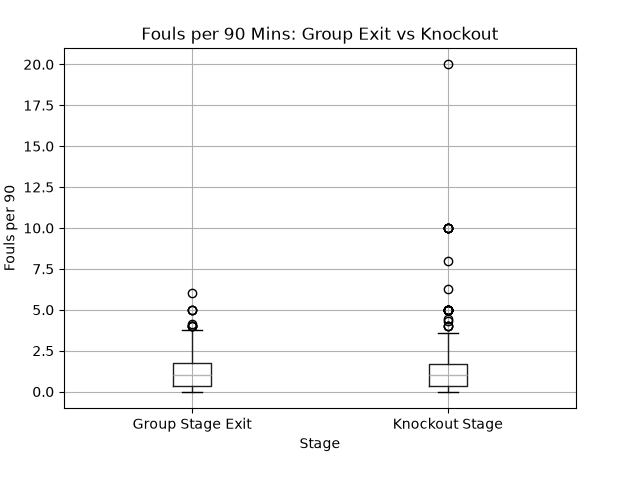
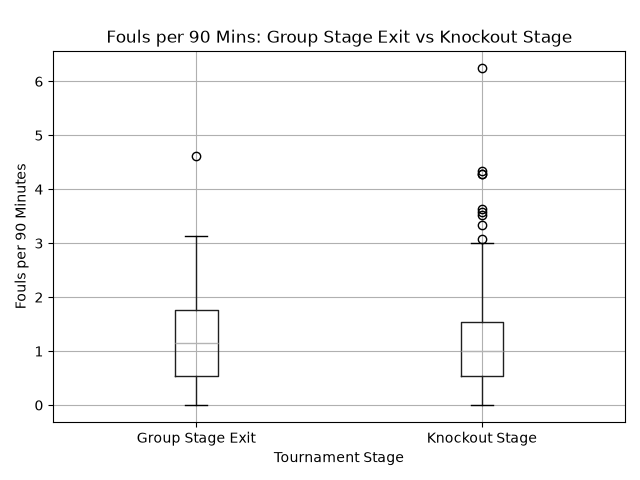
Update task 1 script and generated boxplot

diff --git a/task1_pressing_discipline.py b/task1_pressing_discipline.py
@@ -22,9 +22,9 @@ df = pd.merge(
 df['90s'] = pd.to_numeric(df['90s'], errors='coerce')
 df['Fls'] = pd.to_numeric(df['Fls'], errors='coerce')
 
-# drop missing rows, zero minutes, and goalies
+# drop missing rows, goalies, and players with under 1 full 90 mins (avoids per-90 rate distortion)
 df = df.dropna(subset=['90s', 'Fls'])
-df = df[(df['90s'] > 0) & (df['Pos'] != 'GK')]
+df = df[(df['90s'] >= 1.0) & (df['Pos'] != 'GK')]
 
 # foul rate per 90
 df['Fls_per90'] = df['Fls'] / df['90s']
@@ -40,7 +40,7 @@ df['Stage'] = 'Knockout Stage'
 for team in eliminated_teams:
     df.loc[df['Squad'].str.contains(team, case=False, na=False), 'Stage'] = 'Group Stage Exit'
 
-print("Total players:", len(df))
+print("Total qualifying players:", len(df))
 
 # grab random 60% sample from each group
 sample_exit = df[df['Stage'] == 'Group Stage Exit'].sample(frac=0.6, random_state=42)
@@ -51,39 +51,42 @@ group_exit = sample[sample['Stage'] == 'Group Stage Exit']['Fls_per90']
 group_ko = sample[sample['Stage'] == 'Knockout Stage']['Fls_per90']
 
 # summary stats
-print("\nGroup Stage Exit:")
-print("Mean:", group_exit.mean())
-print("Median:", group_exit.median())
-print("Std Dev:", group_exit.std())
+print("\n--- Group Stage Exit ---")
+print("Mean:   ", round(group_exit.mean(), 2))
+print("Median: ", round(group_exit.median(), 2))
+print("Std Dev:", round(group_exit.std(), 2))
 
-print("\nKnockout Stage:")
-print("Mean:", group_ko.mean())
-print("Median:", group_ko.median())
-print("Std Dev:", group_ko.std())
+print("\n--- Knockout Stage ---")
+print("Mean:   ", round(group_ko.mean(), 2))
+print("Median: ", round(group_ko.median(), 2))
+print("Std Dev:", round(group_ko.std(), 2))
 
-# plot comparison
-sample.boxplot(column='Fls_per90', by='Stage')
-plt.title('Fouls per 90 Mins: Group Exit vs Knockout')
+# boxplot comparison
+plt.figure(figsize=(7, 5))
+sample.boxplot(column='Fls_per90', by='Stage', grid=True)
+plt.title('Fouls per 90 Mins: Group Stage Exit vs Knockout Stage')
 plt.suptitle('')
-plt.ylabel('Fouls per 90')
+plt.xlabel('Tournament Stage')
+plt.ylabel('Fouls per 90 Minutes')
+plt.tight_layout()
 plt.savefig('fouls_plot.png')
 plt.show()
 
 # 95% confidence intervals
 ci_exit = stats.t.interval(0.95, df=len(group_exit)-1, loc=group_exit.mean(), scale=stats.sem(group_exit))
-print("\n95% CI (Exit):", ci_exit)
-
 ci_ko = stats.t.interval(0.95, df=len(group_ko)-1, loc=group_ko.mean(), scale=stats.sem(group_ko))
-print("95% CI (Knockout):", ci_ko)
 
-# t-test
+print("\n95% CI (Exit):", [round(x, 2) for x in ci_exit])
+print("95% CI (Knockout):", [round(x, 2) for x in ci_ko])
+
+# welch's two-sample t-test
 t_stat, p_val = stats.ttest_ind(group_exit, group_ko, equal_var=False)
 
-print("\nt-test results:")
-print("t-stat:", t_stat)
-print("p-value:", p_val)
+print("\n--- Two-Sample t-Test ---")
+print("t-statistic:", round(t_stat, 4))
+print("p-value:    ", round(p_val, 4))
 
 if p_val < 0.05:
-    print("Result: Significant difference (reject H0)")
+    print("Conclusion: Reject Null Hypothesis (Statistically significant difference).")
 else:
-    print("Result: No significant difference (fail to reject H0)")
+    print("Conclusion: Fail to Reject Null Hypothesis (No statistically significant difference).")
